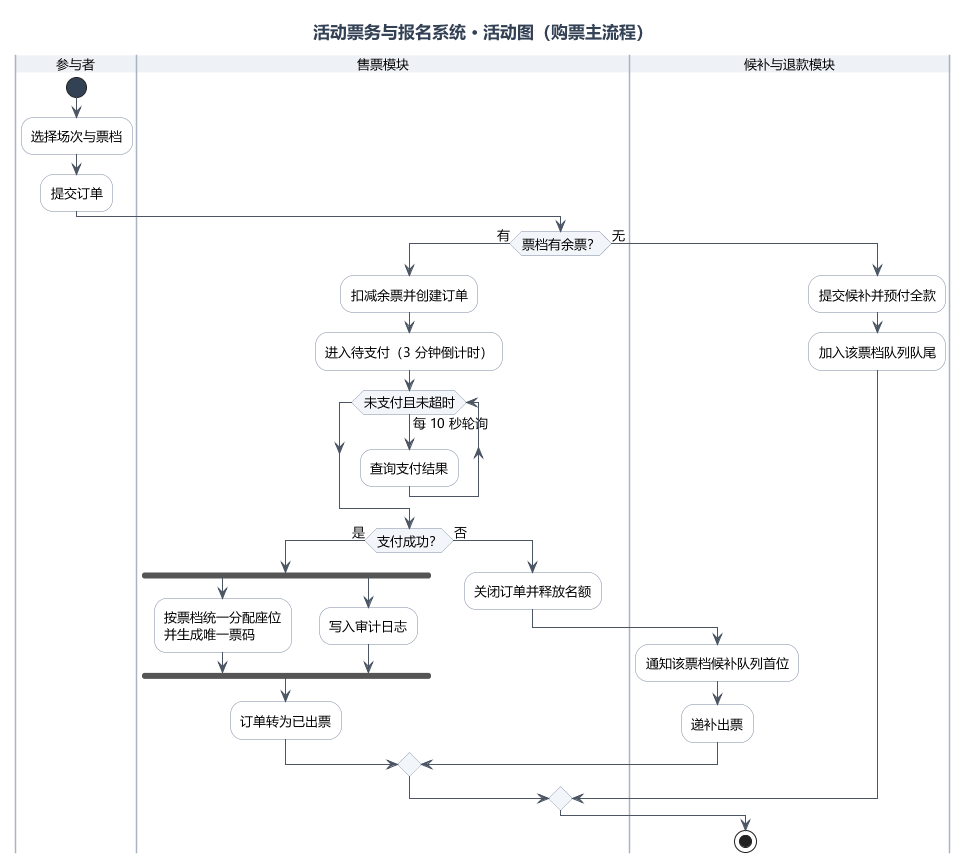
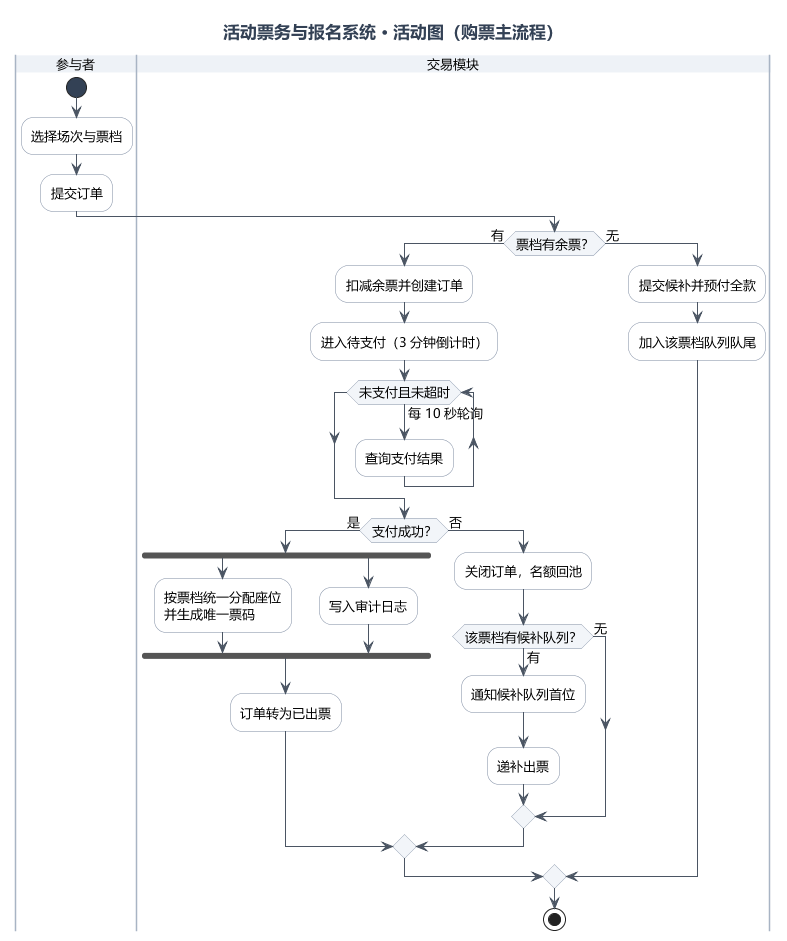
活动图修正：超时关闭名额先回池，候补队列非空才递补（原为无条件递补）；泳道收敛为参与者/交易模块；第2/3章与报告同步

diff --git a/lab2/报告源文件/第2章_模块划分_v0.1.md b/lab2/报告源文件/第2章_模块划分_v0.1.md
@@ -18,7 +18,7 @@
 审计日志、站内通知、故障回退被几乎所有模块使用。若每个业务模块各写一套，日志格式、通知渠道会各说各话。因此统一收敛到平台支撑模块。
 
 **原则四：职责单一到"只有一个变更理由"。**
-统计规则变了只动统计模块；审核流程变了只动活动模块；票务规则变了才动售票模块。
+统计规则变了只动统计模块；审核流程变了只动活动模块；票务规则变了才动交易模块。
 
 ---
 
@@ -36,43 +36,43 @@
 
 ### M1 账号与权限模块
 - **负责**：手机号+密码注册/登录/重置；实名认证（姓名+身份证号，双向唯一）；四类角色的权限判定；管理员封禁与解封。
-- **不负责**：不判断"这个用户能不能买这一场"（那是 M4 的限购规则），也不管可见字段过滤（那是各查询模块按角色取数）。
+- **不负责**：不判断"这个用户能不能买这一场"（那是交易模块的限购规则），也不管可见字段过滤（那是各查询模块按角色取数）。
 - **对外能力**：登录校验、当前用户身份与角色、实名信息读取、封禁状态检查。
-- **依赖**：M7（封禁操作留痕）。
+- **依赖**：平台支撑（封禁操作留痕）。
 
 ### M2 活动发布与审核模块
 - **负责**：活动与场次、票档的创建与提交；管理员审核（通过/驳回+必填原因，不设次数上限）；按约定时间上线；改期/改址/取消的申请与审核；活动主线状态流转（待审核→上线→在售中→已截止→检票中→已结束/已取消）。
-- **不负责**：不卖票、不算余票（M4），不负责通知投递（M8）。
+- **不负责**：不卖票、不算余票（交易模块），不负责通知投递（平台支撑）。
 - **对外能力**：可售场次与票档查询、报名截止时间、签到窗口控制。
-- **依赖**：M7（改期/取消后的站内通知、审计日志）。
+- **依赖**：平台支撑（改期/取消后的站内通知、审计日志）。
 
 ### M3 查询展示模块
 - **负责**：按时间、地点、主演或主讲、主题多条件筛选在售活动；展示各场次余票状态（可购/可候补/已售罄）与购票退票规则；组织者查看自己活动的售票情况与审核进度；管理员按活动编号/订单号/用户 ID 查询。
-- **不负责**：不计算结果性数据，余票与统计一律向 M4、M7 取。
-- **依赖**：M2（活动数据）、M4（余票实时数）。
+- **不负责**：不计算结果性数据，余票与统计一律向交易、平台支撑取。
+- **依赖**：活动发布与审核（活动数据）、交易（余票实时数）。
 
 ### M4 交易模块（售票·候补·退款）
 - **负责**：限购校验（每账号每场次限 1 张）；创建订单并进入待支付；3 分钟模拟支付与超时关闭；出票（按票档统一分配座位、生成唯一票码）；**余票扣减与回池的唯一写入口**；订单状态机（9 状态、9 条允许转换）；票档售罄后的候补申请与预付、按先来后到维护唯一队列、自动递补首位出票、阶梯退票手续费计算（>7 天 20%、3–7 天 40%、不足 3 天禁止）与退款执行。
-- **不负责**：不核销（M5 检票），不生成统计报表（M6 统计与导出）。
+- **不负责**：不核销（检票模块），不生成统计报表（统计与导出模块）。
 - **对外能力**：下单、查余票、关闭订单、候补入队与递补、退款执行。
-- **依赖**：M1（实名与限购所需身份）、M7（审计日志）。
+- **依赖**：账号与权限（实名与限购所需身份）、平台支撑（审计日志）。
 
 
 ### M5 检票模块
 - **负责**：签到窗口开启（演出前约 3 小时）；输入票码+核对身份证号核销；重复核验、已取消、伪造票码、窗口未开四种异常分别提示；演出结束后未检票订单转已缺席。
 - **不负责**：不提供任何查询功能（REQ-005 明确检票人员无查询权限）。
-- **依赖**：M4 交易（订单与票码）、M2（场次与签到窗口）、M7（审计日志）。
+- **依赖**：交易（订单与票码）、活动发布与审核（场次与签到窗口）、平台支撑（审计日志）。
 
 ### M6 统计与导出模块
 - **负责**：按场次统计出票数、到场人数、候补人数、退票数、上座率；按活动/场次导出名单（姓名、联系方式、座位号，**不含身份证号**）；导出行为留审计。
 - **不负责**：不持有业务数据，只聚合交易与检票的记录。
-- **依赖**：M4 交易、M5 检票（数据源）、M7（导出审计）。
+- **依赖**：交易、检票（数据源）、平台支撑（导出审计）。
 
 ### M7 平台支撑模块
 - **负责**：审计日志（操作者、时间、动作、对象、状态前后值；不可删改、可按对象查询）；站内通知（改期/取消、候补递补、退款结果）；一致性保障（故障恢复后"要么完成要么回退"，不留半完成订单）。
 - **不负责**：不承载业务规则。
-- **被依赖**：M1～M6。
-- **说明**：站内通知与模拟支付都是**系统内部能力**——通知由 M7 承载；模拟支付并入 M4 交易模块（REQ-007，本项目不接入真实支付），不引入外部系统。
+- **被依赖**：全部业务模块（M1～M6）。
+- **说明**：站内通知与模拟支付都是**系统内部能力**——通知由平台支撑承载；模拟支付并入交易模块（REQ-007，本项目不接入真实支付），不引入外部系统。
 
 ---
 
@@ -82,37 +82,37 @@
 
 | 业务流程 | 调用链 |
 |---|---|
-| 活动上线 | 组织者 → M2 提交 → M2 请求 M7 记审核 → M2 上线 → M7 通知 |
-| 购票 | M3 查询 → M4 限购校验 → M4 扣减余票 → M4 创建订单 → 待支付 → 支付成功 → M4 出票 → M7 记日志 |
-| 售罄转候补 | M4 返回"售罄" → 交易模块内转候补（预付）→ 入队 |
-| 退票递补 | 交易模块内算手续费 → 释放名额回池 → 取候补队首 → 出票（同模块内完成） |
-| 检票 | M5 校验窗口 → M5 核验票码+身份证 → M4 订单转已签到 → M7 记日志 |
-| 统计导出 | M6 聚合 M4 交易与 M5 检票记录 → 生成报表/名单 → M7 记导出审计 |
-| 活动取消 | M2 审核通过 → M4 全额退款 → M7 通知全部购票用户 |
+| 活动上线 | 组织者 → 活动发布与审核受理 → 请求平台支撑记审核 → 上线 → 平台支撑发通知 |
+| 购票 | 查询展示查询 → 交易限购校验 → 扣减余票 → 创建订单 → 待支付 → 支付成功 → 交易出票 → 平台支撑记日志 |
+| 售罄转候补 | 交易返回"售罄" → 交易模块内转候补（预付）→ 入队 |
+| 退票递补 | 交易模块内算手续费 → 释放名额回池 → 队列非空则递补队首出票，否则仅回池（同模块内完成） |
+| 检票 | 检票校验窗口 → 核验票码+身份证 → 交易把订单转已签到 → 平台支撑记日志 |
+| 统计导出 | 统计与导出聚合交易与检票记录 → 生成报表/名单 → 平台支撑记导出审计 |
+| 活动取消 | 活动发布与审核通过 → 交易全额退款 → 平台支撑通知全部购票用户 |
 
 ### 3.2 共享数据的归属与同步
 
 | 数据 | 唯一所有者 | 谁可以读 | 谁可以写 |
 |---|---|---|---|
-| 票档余票（已售数） | M4 交易 | M3、M6 | **仅 M4** |
-| 订单与票码 | M4 交易 | M5、M6 | M4（状态转换）；M5 只能触发"已签到" |
-| 候补队列 | M4 交易 | M6 | 仅 M4 |
-| 审计日志 | M7 平台支撑 | 管理员 | 各模块通过 M7 追加，无人可改 |
-| 活动/场次/票档定义 | M2 | M3、M4、M5、M6 | 仅 M2（上线后容量与价格冻结） |
+| 票档余票（已售数） | 交易 | 查询展示、统计与导出 | **仅交易** |
+| 订单与票码 | 交易 | 检票、统计与导出 | 交易（状态转换）；检票只能触发"已签到" |
+| 候补队列 | 交易 | 统计与导出 | 仅交易 |
+| 审计日志 | 平台支撑 | 管理员 | 各模块通过平台支撑追加，无人可改 |
+| 活动/场次/票档定义 | 活动发布与审核 | 查询展示、交易、检票、统计与导出 | 仅活动发布与审核（上线后容量与价格冻结） |
 
-**同步规则**：任一票档可售余票 = 总量 − 有效订单数（待支付 + 已出票）。支付、超时关闭、退票、递补四种事件发生后，都由 M4 在同一个事务里更新余票并写日志（REQ-020、REQ-022）。
+**同步规则**：任一票档可售余票 = 总量 − 有效订单数（待支付 + 已出票）。支付、超时关闭、退票、递补四种事件发生后，都由交易模块在同一个事务里更新余票并写日志（REQ-020、REQ-022）。
 
 ### 3.3 依赖方向
 
 ```
-M7（无业务依赖，被所有人依赖）
-M1 ← M3, M4, M5, M6
-M2 ← M3, M4, M6
-M4 ← M3, M6
-M6 ← M4, M5
+平台支撑（无业务依赖，被所有人依赖）
+账号与权限 ← 查询展示、交易、检票、统计与导出
+活动发布与审核 ← 查询展示、交易、统计与导出
+交易 ← 查询展示、统计与导出
+统计与导出 ← 交易、检票
 ```
 
-设计上要求**依赖不成环**。候补与退款并入交易模块后，原 M4 与 M5 之间的方向问题消失；检票、统计对交易的依赖保持单向。模块内部的售票与候补退款两层，实现时仍要保持单向调用。
+设计上要求**依赖不成环**。候补与退款并入交易模块后，原售票与候补退款两模块之间的方向问题消失；检票、统计对交易的依赖保持单向。模块内部的售票与候补退款两层，实现时仍要保持单向调用。
 
 ---
 
@@ -122,24 +122,24 @@ M6 ← M4, M5
 
 | 编号 | 需求名称 | 优先级 | 归属模块 | 在设计中体现在哪 |
 |---|---|---|---|---|
-| REQ-001 | 用户注册、登录与实名认证 | 高 | M1 账号与权限 | 类图 用户（含角色与实名字段）；用例图 注册登录→实名认证；界面1、2 |
-| REQ-002 | 演出申请提交 | 高 | M2 活动发布与审核 | 类图 活动/场次/票档；用例图 提交演出申请；界面7 |
-| REQ-003 | 演出申请审核 | 高 | M2 活动发布与审核 | 类图 审核记录；用例图 审核演出申请；界面8 |
-| REQ-004 | 场次与票档管理 | 高 | M2 活动发布与审核 | 类图 场次 ◆— 票档；组件图 M2；界面7 |
-| REQ-005 | 演出查询与余票展示 | 中 | M3 查询展示（读 M2/M4） | 用例图 查询演出；组件图 M3→M2/M4；界面3、3 |
-| REQ-006 | 实名购票与限购 | 高 | M4 交易（M1 提供身份与实名） | 用例图 购票 include 实名限购校验；类图 订单；界面4、4 |
-| REQ-007 | 购票支付与出票 | 高 | M4 交易（含站内模拟支付） | 活动图 支付判断→出票/超时；界面5 |
-| REQ-008 | 候补购票与自动递补 | 高 | M4 交易（售票·候补·退款） | 时序图 loop 递补；活动图 售罄分支；界面6 |
-| REQ-009 | 阶梯退票 | 低 | M4 交易（售票·候补·退款） | 时序图 alt + 手续费自调用；界面6 |
-| REQ-010 | 演出修改、延期与取消 | 高 | M2（退款经 M4、通知经 M7） | 类图 审核记录；用例图 申请改期或取消；界面7、7 |
-| REQ-011 | 检票入场 | 高 | M5 检票 | 用例图 核销票码 include 校验签到窗口；界面9 |
-| REQ-012 | 缺席处理 | 中 | M5 检票（统计经 M6） | 状态图 已出票→已缺席；界面10 |
+| REQ-001 | 用户注册、登录与实名认证 | 高 | 账号与权限 | 类图 用户（含角色与实名字段）；用例图 注册登录→实名认证；界面1、2 |
+| REQ-002 | 演出申请提交 | 高 | 活动发布与审核 | 类图 活动/场次/票档；用例图 提交演出申请；界面7 |
+| REQ-003 | 演出申请审核 | 高 | 活动发布与审核 | 类图 审核记录；用例图 审核演出申请；界面8 |
+| REQ-004 | 场次与票档管理 | 高 | 活动发布与审核 | 类图 场次 ◆— 票档；组件图 活动发布与审核；界面7 |
+| REQ-005 | 演出查询与余票展示 | 中 | 查询展示（读活动发布与审核、交易） | 用例图 查询演出；组件图 查询展示→活动发布与审核/交易；界面3 |
+| REQ-006 | 实名购票与限购 | 高 | 交易（账号与权限提供身份与实名） | 用例图 购票 include 实名限购校验；类图 订单；界面4 |
+| REQ-007 | 购票支付与出票 | 高 | 交易（含站内模拟支付） | 活动图 支付判断→出票/超时；界面5 |
+| REQ-008 | 候补购票与自动递补 | 高 | 交易（售票·候补·退款） | 时序图 loop 递补；活动图 售罄分支；界面6 |
+| REQ-009 | 阶梯退票 | 低 | 交易（售票·候补·退款） | 时序图 alt + 手续费自调用；界面6 |
+| REQ-010 | 演出修改、延期与取消 | 高 | 活动发布与审核（退款经交易、通知经平台支撑） | 类图 审核记录；用例图 申请改期或取消；界面7 |
+| REQ-011 | 检票入场 | 高 | 检票 | 用例图 核销票码 include 校验签到窗口；界面9 |
+| REQ-012 | 缺席处理 | 中 | 检票（统计经统计与导出模块） | 状态图 已出票→已缺席；界面10 |
 | REQ-013 | 票转让 | 低 | **不实现**（甲方已拒绝） | 见第 5 节；不画入任何图 |
-| REQ-014 | 名单导出 | 中 | M6 统计与导出 | 用例图 查看统计并导出名单；界面10 |
-| REQ-015 | 场次统计 | 中 | M6 统计与导出 | 类图 场次.上座率()；界面10 |
-| REQ-016 | 操作记录（审计） | 高 | M7 平台支撑（各模块调用写入） | 类图 审计日志；时序图 末尾写日志；组件图 M4/M2→M8 |
-| REQ-017 | 账号封禁 | 中 | M1 账号与权限 | 类图 用户.状态/封禁原因 + 审计日志；用例图 封禁账号 |
-| REQ-023 | 订单状态与状态转换规则 | 高 | M4 交易（检票等触发转换） | 状态图 全图；类图 订单状态 |
+| REQ-014 | 名单导出 | 中 | 统计与导出 | 用例图 查看统计并导出名单；界面10 |
+| REQ-015 | 场次统计 | 中 | 统计与导出 | 类图 场次.上座率()；界面10 |
+| REQ-016 | 操作记录（审计） | 高 | 平台支撑（各模块调用写入） | 类图 审计日志；时序图 末尾写日志；组件图 交易/活动发布与审核→平台支撑 |
+| REQ-017 | 账号封禁 | 中 | 账号与权限 | 类图 用户.状态/封禁原因 + 审计日志；用例图 封禁账号 |
+| REQ-023 | 订单状态与状态转换规则 | 高 | 交易（检票等触发转换） | 状态图 全图；类图 订单状态 |
 
 ### 4.2 非功能需求（6 条）——横切，不单独成模块
 
@@ -147,12 +147,12 @@ M6 ← M4, M5
 
 | 编号 | 需求名称 | 落点 | 设计上如何保证 |
 |---|---|---|---|
-| REQ-018 | 查询响应性能 | M3、M4 | 查询走只读路径（M3 不写业务数据）；余票由订单推导，不维护冗余计数 |
-| REQ-019 | 密码存储安全 | M1 | 只存密码哈希；任何接口不返回密码字段 |
-| REQ-020 | 购票数据一致性（不超售、队列有序） | M4 交易（含候补与退款） | 余票唯一写入口在交易模块内；候补记录以排队序号排序 |
-| REQ-021 | 退款金额一致性 | M4 交易 | 退款与手续费在同一个服务方法内计算并落库 |
-| REQ-022 | 故障回退与可靠性 | M7 平台支撑（横切全部写操作） | 扣名额、建订单、写日志放在同一事务；失败整体回退 |
-| REQ-024 | 角色数据可见范围 | M1 + M3/M6 取数 | 角色判定集中在 M1；查询模块按角色裁剪返回字段 |
+| REQ-018 | 查询响应性能 | 查询展示、交易 | 查询走只读路径（查询展示不写业务数据）；余票由订单推导，不维护冗余计数 |
+| REQ-019 | 密码存储安全 | 账号与权限 | 只存密码哈希；任何接口不返回密码字段 |
+| REQ-020 | 购票数据一致性（不超售、队列有序） | 交易（含候补与退款） | 余票唯一写入口在交易模块内；候补记录以排队序号排序 |
+| REQ-021 | 退款金额一致性 | 交易 | 退款与手续费在同一个服务方法内计算并落库 |
+| REQ-022 | 故障回退与可靠性 | 平台支撑（横切全部写操作） | 扣名额、建订单、写日志放在同一事务；失败整体回退 |
+| REQ-024 | 角色数据可见范围 | 账号与权限 + 查询展示/统计与导出取数 | 角色判定集中在账号与权限；查询模块按角色裁剪返回字段 |
 
 ### 4.3 按模块反查（检查有没有模块是空的）
 
@@ -171,7 +171,7 @@ M6 ← M4, M5
 
 1. **24 条全部有落点**：功能需求 17 条 + 已拒绝 1 条（明确不实现）+ 非功能需求 6 条（标注横切落点）。
 2. **主责唯一**：每条需求只由一个模块承担主责，其余模块只在表里标"配合"，避免同一规则两处实现。
-3. **没有空模块**：M1～M7 每个至少有一条主责需求；若将来某个模块的需求被删空，应考虑合并该模块。
+3. **没有空模块**：七个模块每个至少有一条主责需求；若将来某个模块的需求被删空，应考虑合并该模块。
 4. **REQ-013 与需求文档一致**：状态为"已拒绝"，在设计里不出现任何对应类、用例或界面。
 
 > 写作提示：4.1 的表格可以直接放进报告第二章，作为"设计覆盖了需求"的证据；4.2 的分类说明能体现你分得清功能需求与非功能需求，是加分点。
@@ -183,7 +183,7 @@ M6 ← M4, M5
 1. 票转让（REQ-013，甲方已拒绝）；
 2. 真实支付与真实短信：支付为站内模拟，通知只走站内消息；
 3. 人脸识别与二维码：入场凭证为唯一票码字符串；
-4. 座位图选座：座位由 M4 按票档统一分配；
+4. 座位图选座：座位由交易模块按票档统一分配；
 5. 黄牛自动检测：以实名限购 + 管理员手动封禁替代。
 
 ---
@@ -192,9 +192,9 @@ M6 ← M4, M5
 
 1. **逐条对表**：翻 requirements.md 的 24 条，每条是否都能在上面的对齐表里找到归属？找不到的先记下来，别猜。
 2. **余票写入口是否唯一**：候补与退款已并入交易模块，退票与递补不再跨模块调用；实现时仍要保证余票扣减收敛在同一处代码。
-3. **模块依赖是否成环**：合并后原 M4/M5 的方向问题消失；检票、统计对交易的依赖保持单向。
-4. **系统内组件的归位**：站内通知归 M7 平台支撑，模拟支付并入 M4 交易模块，二者都是系统内部能力、不标外部系统。这一条要和组件图保持一致。
-5. **模块与界面是否对得上**：7 个业务模块对 10 屏 UI，M7 平台支撑没有独立界面——合理吗？如果不合理，是加一屏"审计日志查询"还是并进管理员界面？
+3. **模块依赖是否成环**：合并后原售票与候补退款的方向问题消失；检票、统计对交易的依赖保持单向。
+4. **系统内组件的归位**：站内通知归平台支撑，模拟支付并入交易模块，二者都是系统内部能力、不标外部系统。这一条要和组件图保持一致。
+5. **模块与界面是否对得上**：7 个业务模块对 10 屏 UI，平台支撑没有独立界面——合理吗？如果不合理，是加一屏"审计日志查询"还是并进管理员界面？
 6. **拒绝的需求有没有混进来**：全文搜一遍"转让""选座""二维码""检测"，不该出现的删掉。
 7. **命名是否统一**：模块名 = 组件图的组件名 = 类图的包名？定稿后后面的图直接照抄，不要再起别名。
 

diff --git a/lab2/报告源文件/第3章_UML设计_v0.1.md b/lab2/报告源文件/第3章_UML设计_v0.1.md
@@ -8,7 +8,7 @@
 
 ## 3.1 类图
 
-图展示核心领域模型：14 个类（含 2 个 «同一类» 副本）。模块归属用底色区分——蓝 = M1 账号与权限，绿 = M2 活动发布与审核，橙 = M4 交易（售票·候补·退款），紫 = M5 检票与 M6 统计与导出（现场与运营），灰 = M7 平台支撑。不画包框而用配色，是为了让布局引擎自由排布、做到连线零交叉；模块与类的完整对应见第二章 4.3 节的反查表。
+图展示核心领域模型：14 个类（含 2 个 «同一类» 副本）。模块归属用底色区分——蓝 = 账号与权限，绿 = 活动发布与审核，橙 = 交易（售票·候补·退款），紫 = 检票、统计与导出（现场与运营），灰 = 平台支撑。不画包框而用配色，是为了让布局引擎自由排布、做到连线零交叉；模块与类的完整对应见第二章 4.3 节的反查表。
 
 此外有四处呈现技巧：① 布局按"从上到下读"设计——右上角是账号体系（四个角色泛化箭头向上指向用户，教科书惯例），中轴是业务主链（组织者提交 → 活动 → 场次 → 票档 → 订单 → 审计日志，垂直向下），左侧一列是与主链各环节一一对应的记录（检票记录对应场次核销、候补记录对应票档排队），退款作为订单的关联放在主链右侧收尾，读图顺序即业务顺序；② 参与者与组织者各有一个带构造型 «同一类» 的副本，就近画在订单与活动旁边——UML 允许同一元素在图中出现多次，副本只承担业务关联（购买、提交），继承关系由右侧的角色原块表达，两条线因此从横贯全图变成局部短线；③ 审计日志与业务对象之间只画出"订单 → 审计日志"一条依赖线作为代表，活动、检票等对象的写入不再重复，图旁注释已说明；④ 布局方向逐条手工指定（-up-/-down-/-left-/-right-），保证连线零交叉。
 
@@ -100,30 +100,30 @@
 
 ## 3.2 组件图
 
-图展示 7 个业务模块、1 个对外接口和若干依赖关系，四类角色用户位于系统框外顶部。布局按调用方向分四层：顶部是四类角色用户；其下一行是对外接口与发起调用的模块（账号与权限、查询展示、检票、统计与导出）；再下是被依赖的交易(M4，含售票·候补·退款)与活动发布与审核(M2)——M4 被 3 个模块依赖，是全局枢纽，故置于图的中心；底部是平台支撑(M7)。接口符号只留给被多方复用的能力：登录面向全部四类角色，画在系统框内、紧贴 M1；下单与核销都不设接口符号——下单是 M4 交易模块的内建能力，候补递补在模块内复用同一入口，购票链路由 M3 ..> M4 的查询余票依赖表达，核销仅检票人员一人使用、由角色直达检票(M5)，角色出发的三条线因此呈扇形展开、互不交叉。模拟支付并入 M4 交易模块作为内建职责——REQ-007 确认本项目不接入真实支付，全站模拟、无外部系统，图中因此只有 M1～M7 七个模块。依赖方向自上而下，全程无交叉；实现上用少量隐藏锚点边固定行列顺序（仅定位、不表达关系）。每个模块框内以小字标注该模块的代表性职责，与第二章模块划分对应。
+图展示 7 个业务模块、1 个对外接口和若干依赖关系，四类角色用户位于系统框外顶部。布局按调用方向分四层：顶部是四类角色用户；其下一行是对外接口与发起调用的模块（账号与权限、查询展示、检票、统计与导出）；再下是被依赖的交易模块（含售票·候补·退款）与活动发布与审核——交易被 3 个模块依赖，是全局枢纽，故置于图的中心；底部是平台支撑。接口符号只留给被多方复用的能力：登录面向全部四类角色，画在系统框内、紧贴账号与权限；下单与核销都不设接口符号——下单是交易模块的内建能力，候补递补在模块内复用同一入口，购票链路由查询展示到交易的查询余票依赖表达，核销仅检票人员一人使用、由角色直达检票，角色出发的三条线因此呈扇形展开、互不交叉。模拟支付并入交易模块作为内建职责——REQ-007 确认本项目不接入真实支付，全站模拟、无外部系统，图中因此只有七个业务模块。依赖方向自上而下，全程无交叉；实现上用少量隐藏锚点边固定行列顺序（仅定位、不表达关系）。每个模块框内以小字标注该模块的代表性职责，与第二章模块划分对应。
 
-1. **账号与权限(M1) — 登录接口**
-   - 逻辑关系：所有角色登录都经过 M1，M1 对外暴露"登录"。
+1. **账号与权限 — 登录接口**
+   - 逻辑关系：所有角色登录都经过账号与权限模块，由它对外暴露"登录"。
    - 设计原因：把鉴权收敛到一个组件，其他模块不再各自校验密码（REQ-001、REQ-019）。
 
-2. **检票人员 → 检票(M5)：核销票码**
+2. **检票人员 → 检票：核销票码**
    - 逻辑关系：检票人员是核销的唯一使用者，直达模块。
-   - 设计原因：核销涉及座位、票码、签到窗口，收在 M5 内独占校验逻辑（REQ-011）；接口符号只留给被多方复用的能力（登录），核销单一入口，直连更直观。
+   - 设计原因：核销涉及座位、票码、签到窗口，收在检票模块内独占校验逻辑（REQ-011）；接口符号只留给被多方复用的能力（登录），核销单一入口，直连更直观。
 
-3. **查询展示(M3) ..> 交易(M4)：查询余票；查询展示(M3) ..> 活动发布与审核(M2)：查询活动**
-   - 逻辑关系：M3 只读，不写任何业务数据。
+3. **查询展示 ..> 交易：查询余票；查询展示 ..> 活动发布与审核：查询活动**
+   - 逻辑关系：查询展示只读，不写任何业务数据。
    - 设计原因：读写分离，查询压力不落到写入口上（REQ-005、REQ-018）。
 
-4. **候补与退款并入交易(M4)**
-   - 逻辑关系：M5 退票后请求 M4 回池，自己不直接改已售数。
+4. **候补与退款并入交易模块**
+   - 逻辑关系：检票退票后请求交易回池，自己不直接改已售数。
    - 设计原因：这是"余票唯一写入口"的落地方式，也是避免超售的关键（REQ-020）。
 
-5. **模拟支付并入交易(M4)**
-   - 逻辑关系：下单、支付、退票退款在 M4 内闭环，图中只有 M1～M7 七个模块。
+5. **模拟支付并入交易模块**
+   - 逻辑关系：下单、支付、退票退款在交易模块内闭环，图中只有七个业务模块。
    - 设计原因：REQ-007 确认全站模拟支付、无外部系统；支付与订单事务（待支付、超时关闭、原路退回）不可分，独立成组件只会多一条依赖线。
 
-6. **交易(M4) ..> 平台支撑(M7)：写审计日志；活动发布与审核(M2) ..> 平台支撑(M7)：发送站内通知**
-   - 逻辑关系：各模块的关键操作都写入 M7，图中只画两条代表线。
+6. **交易 ..> 平台支撑：写审计日志；活动发布与审核 ..> 平台支撑：发送站内通知**
+   - 逻辑关系：各模块的关键操作都写入平台支撑，图中只画两条代表线。
    - 设计原因：横切能力集中，避免每个模块各写一套日志与通知（REQ-016、REQ-010）。
 
 ---
@@ -167,7 +167,7 @@
 
 ## 3.4 活动图
 
-图展示购票主流程，三条泳道：参与者、售票模块、候补与退款模块。
+图展示购票主流程，两条泳道：参与者、交易模块（售票·候补·退款合并后同属交易模块）。
 
 1. **判断"票档有余票"**
    - 逻辑关系：提交订单后第一件事是余票判断，有则扣减建单，无则转候补。
@@ -181,9 +181,9 @@
    - 逻辑关系：支付成功后两件事互不依赖，可并行。
    - 设计原因：出票（REQ-007）与留痕（REQ-016）分开，日志失败不应阻塞出票，反之亦然。
 
-4. **支付失败的 else 分支：关闭订单 → 释放名额 → 通知候补首位 → 递补出票**
-   - 逻辑关系：超时未支付的名额要回流，并自动补给队列首位。
-   - 设计原因：这是 REQ-008 的"自动递补"，也是"名额不丢失"的保证（REQ-020）。
+4. **支付失败的 else 分支：关闭订单 → 名额回池 → 有候补队列则递补**
+   - 逻辑关系：超时未支付的名额先无条件回流余票池；该票档候补队列非空时才通知队首、递补出票，否则名额留作余票。
+   - 设计原因：回池是余票唯一写入口的固定动作，递补是"队列非空"时的后续动作——有余票时不存在候补队列，图中不出现递补（REQ-008、REQ-020）。
 
 5. **"无余票"分支 → 提交候补并预付 → 加入队尾**
    - 逻辑关系：售罄后不是简单报错，而是给出候补路径。
@@ -196,7 +196,7 @@
 
 ## 3.5 时序图
 
-图展示"退票与自动递补"。对象名与类图的领域对象对应（订单、票档、候补记录、审计日志）；"候补退款服务"是服务类、"站内通知"是消息对象，按第 3.1 节的取舍不在类图中出现，它们分别对应组件图的 M5 与 M8。
+图展示"退票与自动递补"。对象名与类图的领域对象对应（订单、票档、候补记录、审计日志）；"候补退款服务"是服务类、"站内通知"是消息对象，按第 3.1 节的取舍不在类图中出现，它们分别对应组件图的交易模块与平台支撑模块。
 
 1. **为什么不画"购票"**
    - 逻辑关系：购票流程已经在活动图里展开。
@@ -257,5 +257,5 @@
 | 图的张数 | 4～6 张 | 6 张（多一张状态图） |
 | 图内说明 | 每张图配"逻辑关系 + 设计原因"逐条说明 | 同左，且每条挂需求编号 |
 | 服务类 | 类图含 TaskManager、ReminderService | 类图含 4 个服务类，与组件图模块一一对应 |
-| 外部系统 | 组件图画出用户与外部应用 | 本项目无外部系统（支付为站内模拟），组件图画出四类角色，模拟支付并入交易(M4)模块 |
+| 外部系统 | 组件图画出用户与外部应用 | 本项目无外部系统（支付为站内模拟），组件图画出四类角色，模拟支付并入交易模块 |
 | 时序图与活动图 | 都描述同一批操作，内容有重叠 | 活动图画买票、时序图画退票递补，互补不重复 |
